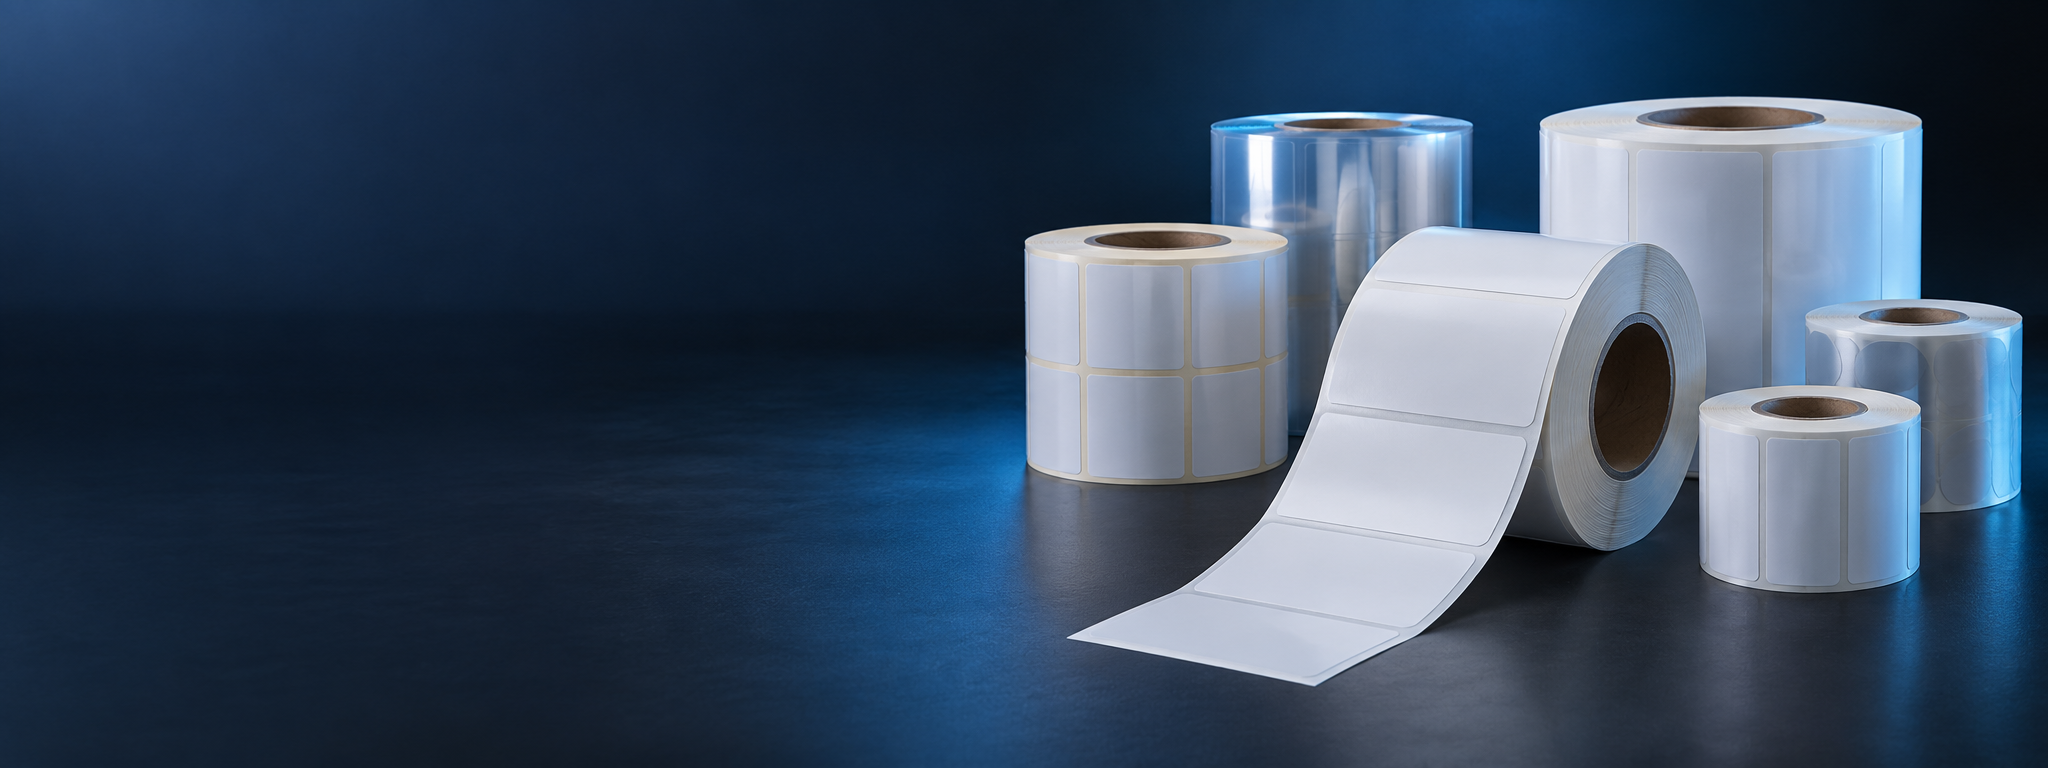
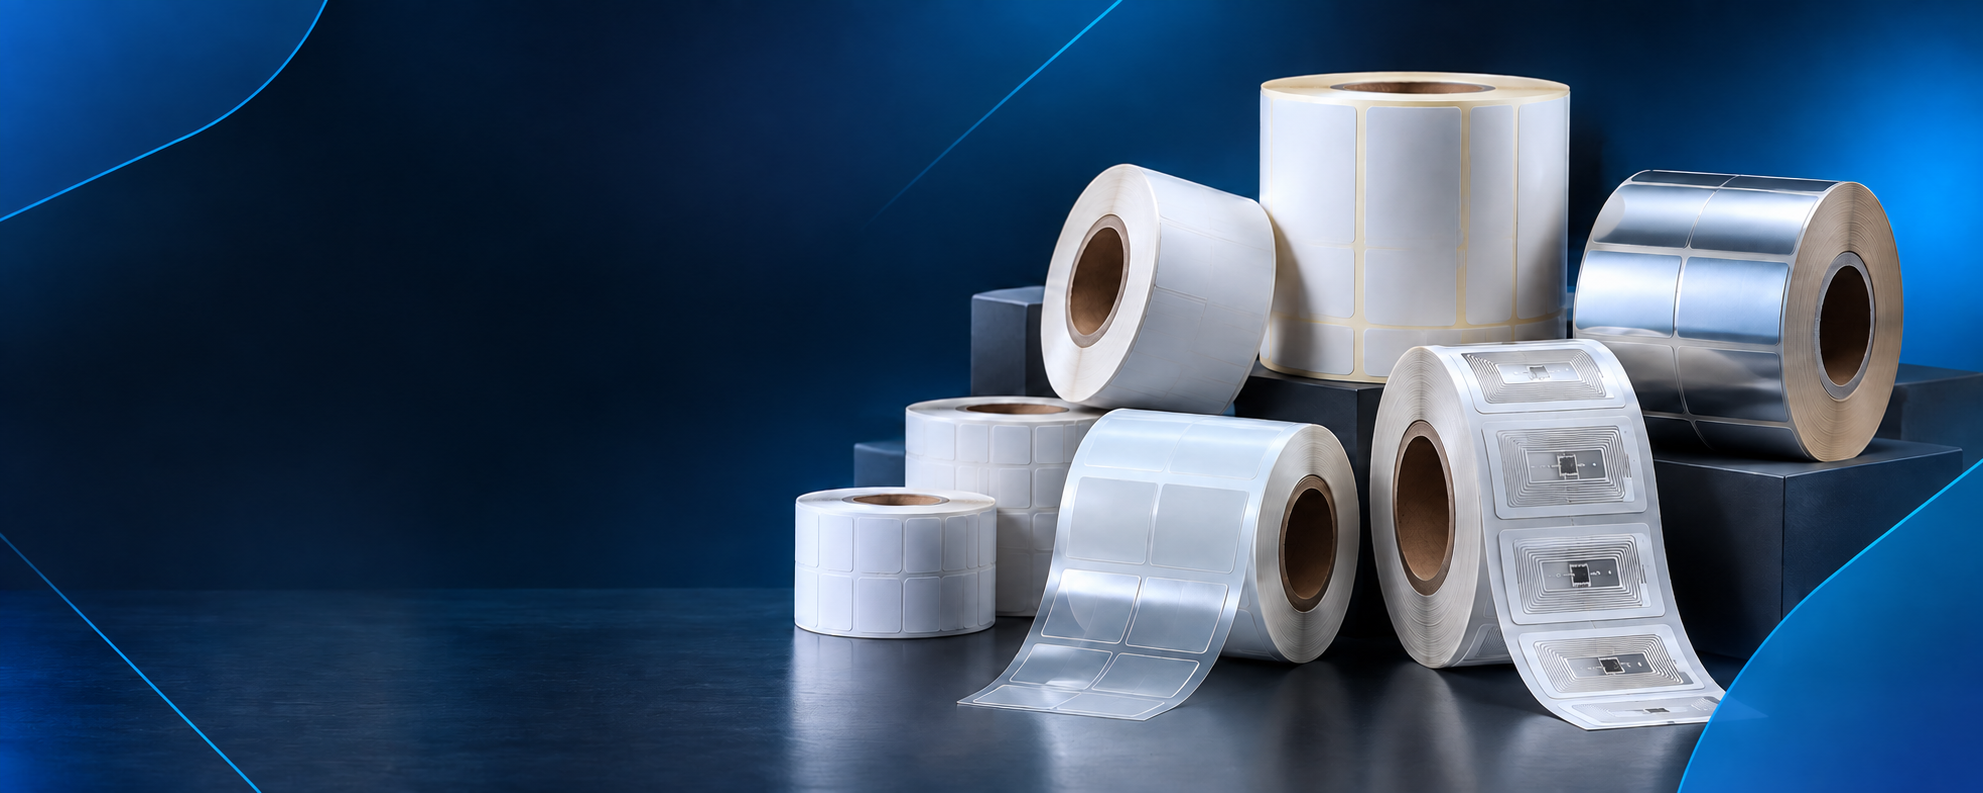
Add files via upload

diff --git a/src/routes/index.tsx b/src/routes/index.tsx
@@ -11,7 +11,6 @@ import {
   Radio,
   ScanLine,
   ShieldCheck,
-  Tags,
   Workflow,
   Wrench,
   MessageCircle,
@@ -101,18 +100,6 @@ const solutions = [
       "Support & pièces de rechange",
     ],
   },
-];
-
-const famillesEtiquettes = [
-  "Papier couché & thermique",
-  "PP, PET & PE",
-  "Résistantes eau & chimie",
-  "Haute & basse température",
-  "Sécurité, VOID & RFID",
-  "Logistique & codes-barres",
-  "Textile & automobile",
-  "Agroalimentaire & pharma",
-  "Transparentes & sur mesure",
 ];
 
 const marquesAffichees: BrandName[] = ["Zebra", "Avery Dennison", "POSTEK", "CAB", "SATO", "TSC"];
@@ -272,23 +259,17 @@ function Index() {
           </div>
 
           <div className="mt-12 grid gap-5 lg:grid-cols-2">
-            <article className="group relative overflow-hidden rounded-3xl border border-white/20 bg-transparent p-6 shadow-card transition-all hover:-translate-y-1 hover:border-accent/60 sm:p-8 lg:col-span-2">
+            <article className="group relative min-h-[480px] overflow-hidden rounded-3xl border border-white/20 bg-[#061221] p-6 shadow-card transition-all hover:-translate-y-1 hover:border-accent/60 sm:min-h-[520px] sm:p-8 lg:col-span-2">
               <img
                 src={etiquettesBackground}
                 alt=""
                 aria-hidden="true"
-                className="absolute inset-0 h-full w-full object-cover object-center opacity-95 brightness-115 contrast-105 transition-transform duration-700 group-hover:scale-[1.02]"
+                className="absolute inset-0 h-full w-full object-cover object-center transition-transform duration-700 group-hover:scale-[1.01]"
               />
-              <div className="absolute inset-0 bg-gradient-to-r from-background/45 via-background/15 to-transparent" />
-              <div className="absolute right-6 top-5 font-display text-6xl font-extrabold text-accent/10 sm:text-8xl">
-                02
-              </div>
-              <div className="relative grid gap-8 lg:grid-cols-[0.85fr_1.15fr] lg:items-center">
-                <div>
-                  <div className="grid h-12 w-12 place-items-center rounded-xl border border-accent/25 bg-accent/10 backdrop-blur-sm">
-                    <Tags className="h-6 w-6 text-accent" />
-                  </div>
-                  <p className="mt-6 text-xs font-semibold uppercase tracking-[0.24em] text-accent">
+              <div className="absolute inset-0 bg-gradient-to-r from-[#061221]/85 via-[#061221]/25 to-transparent lg:via-transparent" />
+              <div className="relative flex min-h-[420px] items-center sm:min-h-[456px]">
+                <div className="max-w-xl">
+                  <p className="text-xs font-semibold uppercase tracking-[0.24em] text-accent">
                     02 — Famille stratégique
                   </p>
                   <h3 className="mt-3 font-display text-2xl font-bold text-foreground sm:text-3xl">
@@ -298,22 +279,12 @@ function Index() {
                     Des matières, adhésifs et formats sélectionnés selon le support, la température,
                     l'environnement et la durée d'utilisation.
                   </p>
-                  <Link
-                    to="/produits"
-                    className="mt-7 inline-flex items-center gap-2 rounded-full border border-accent/40 bg-accent/15 px-5 py-3 text-sm font-semibold text-foreground backdrop-blur-sm transition-colors hover:bg-accent hover:text-accent-foreground"
+                  <a
+                    href="/produits#etiquettes"
+                    className="mt-7 inline-flex items-center gap-2 rounded-full border border-accent/60 bg-background/30 px-5 py-3 text-sm font-semibold text-foreground backdrop-blur-sm transition-colors hover:bg-accent hover:text-accent-foreground"
                   >
                     Découvrir nos étiquettes <ArrowRight className="h-4 w-4" />
-                  </Link>
-                </div>
-                <div className="grid grid-cols-2 gap-3 sm:grid-cols-3">
-                  {famillesEtiquettes.map((famille) => (
-                    <div
-                      key={famille}
-                      className="flex min-h-20 items-center rounded-xl border border-white/25 bg-background/5 p-4 text-sm font-medium leading-snug text-foreground shadow-sm backdrop-blur-md transition-colors group-hover:border-accent/40 group-hover:bg-background/10"
-                    >
-                      {famille}
-                    </div>
-                  ))}
+                  </a>
                 </div>
               </div>
             </article>

diff --git a/src/routes/produits.tsx b/src/routes/produits.tsx
@@ -78,6 +78,39 @@ const familles = [
   },
 ] as const;
 
+const typesEtiquettes = [
+  [
+    "Papier couché et thermique",
+    "Pour la logistique, l'expédition, le retail et les usages courants.",
+  ],
+  [
+    "Polypropylène (PP)",
+    "Support synthétique résistant à l'humidité et adapté aux surfaces exigeantes.",
+  ],
+  ["Polyester (PET)", "Pour les applications industrielles demandant résistance et longue durée."],
+  ["Polyéthylène (PE)", "Support souple pour emballages et contenants soumis aux déformations."],
+  [
+    "Eau et produits chimiques",
+    "Matières et adhésifs sélectionnés pour les environnements difficiles.",
+  ],
+  ["Haute et basse température", "Solutions adaptées au froid, à la congélation et à la chaleur."],
+  [
+    "Sécurité, VOID et destructibles",
+    "Pour le contrôle d'ouverture, la garantie et l'inviolabilité.",
+  ],
+  ["Étiquettes RFID", "Identification sans contact, inventaire et traçabilité automatisée."],
+  ["Logistique et codes-barres", "Étiquetage des colis, palettes, emplacements et produits."],
+  ["Textile et automobile", "Supports techniques adaptés aux contraintes de production."],
+  [
+    "Agroalimentaire et pharmaceutique",
+    "Solutions étudiées selon les conditions d'usage et de stockage.",
+  ],
+  [
+    "Transparentes et sur mesure",
+    "Formats, formes, matières et adhésifs personnalisés selon le besoin.",
+  ],
+] as const;
+
 function categorieId(categorie: string) {
   if (categorie.includes("Terminaux")) return "terminaux";
   if (categorie.includes("automatique")) return "automatisation";
@@ -102,7 +135,50 @@ function ProduitsPage() {
       />
 
       <Section>
-        <div className="grid gap-3 sm:grid-cols-2 lg:grid-cols-3">
+        <div
+          id="etiquettes"
+          className="scroll-mt-28 rounded-3xl border border-border bg-card/55 p-6 sm:p-8"
+        >
+          <p className="text-xs font-semibold uppercase tracking-[0.24em] text-accent">
+            Supports d'identification
+          </p>
+          <h2 className="mt-3 font-display text-2xl font-extrabold text-foreground sm:text-3xl">
+            Nos différents types d'étiquettes
+          </h2>
+          <p className="mt-4 max-w-3xl leading-relaxed text-muted-foreground">
+            La matière et l'adhésif sont sélectionnés selon le support, la température,
+            l'environnement et la durée d'utilisation.
+          </p>
+          <div className="mt-7 grid gap-3 sm:grid-cols-2 lg:grid-cols-3">
+            {typesEtiquettes.map(([titre, texte]) => (
+              <article
+                key={titre}
+                className="rounded-2xl border border-border bg-background/45 p-5"
+              >
+                <h3 className="font-display font-bold text-foreground">{titre}</h3>
+                <p className="mt-2 text-sm leading-relaxed text-muted-foreground">{texte}</p>
+              </article>
+            ))}
+          </div>
+          <div className="mt-7 flex flex-wrap gap-3">
+            <a
+              href={devisMailto("Étiquettes adhésives")}
+              className="inline-flex items-center gap-2 rounded-full bg-brand px-5 py-3 text-sm font-semibold text-primary-foreground shadow-brand"
+            >
+              <Mail className="h-4 w-4" /> Demander un devis
+            </a>
+            <a
+              href={whatsappHref("Étiquettes adhésives")}
+              target="_blank"
+              rel="noreferrer"
+              className="inline-flex items-center gap-2 rounded-full border border-[#25D366]/60 px-5 py-3 text-sm font-semibold text-foreground"
+            >
+              <MessageCircle className="h-4 w-4 text-[#25D366]" /> WhatsApp
+            </a>
+          </div>
+        </div>
+
+        <div className="mt-10 grid gap-3 sm:grid-cols-2 lg:grid-cols-3">
           {familles.map(({ id, titre, texte, icone: Icone }) => (
             <a
               key={id}
